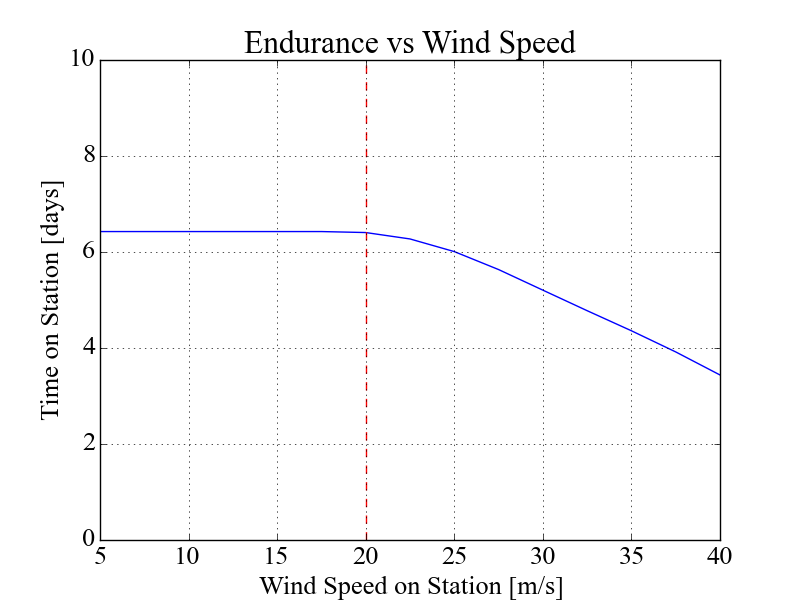
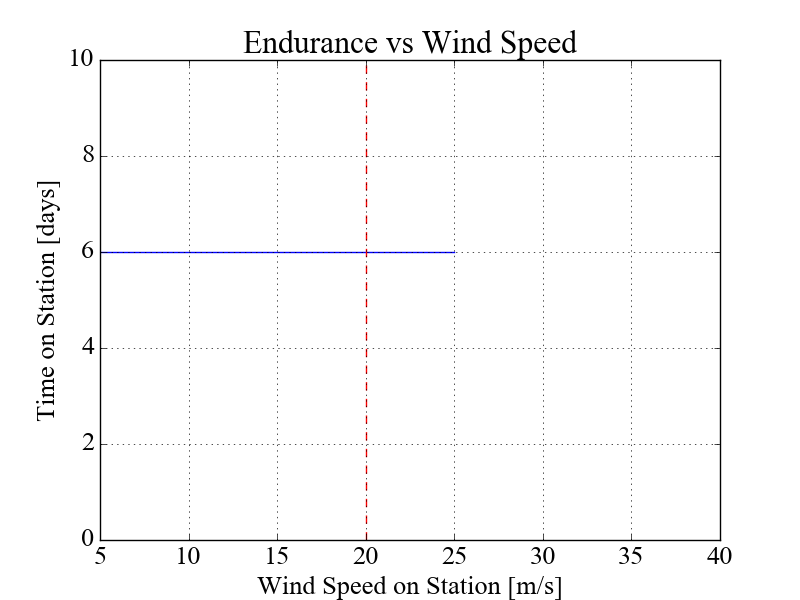
Many edits to generate CDR plots.

diff --git a/1682/gas_male/gas_male_fixCDRhtry.py b/1682/gas_male/gas_male_fixCDRhtry.py
@@ -13,13 +13,13 @@ plt.rc('font', family='serif')
 plt.rc('font', serif='Times New Roman')
 plt.rcParams.update({'font.size':19})
 
-PLOT = False
+PLOT = True
 fixed = True
-wind = False
+wind = True
 mission = False
 W_pay = False
 P_pay = False
-altitude = False
+altitude = True
 
 class GasPoweredHALE(Model):
     def __init__(self, h_station=15000, NLoiter=20, NClimb1=10, NClimb2=10, NCruise1=5, NCruise2=5,**kwargs):
@@ -263,7 +263,7 @@ class GasPoweredHALE(Model):
         # Breguet Range
         z_bre = VectorVariable(NSeg, 'z_{bre}', '-', 'breguet coefficient')
         t_cruise = Variable('t_{cruise}', 1, 'days', 'time to station')
-        t_station = Variable('t_{station}', 6, 'days', 'time on station')
+        t_station = Variable('t_{station}',6, 'days', 'time on station')
         R = Variable('R', 200, 'nautical_miles', 'range to station')
         R_cruise = Variable('R_{cruise}', 180, 'nautical_miles',
                             'range to station during climb')
@@ -505,11 +505,11 @@ if __name__ == '__main__':
         hspar_fix = sol('h_{spar}').magnitude
         Volfuel_fix = sol('Vol_{fuel}').magnitude
 
-        wind = True
+        #wind = True
         M = GasPoweredHALE(NLoiter=NLoiter, NClimb1=NClimb1, NClimb2=NClimb2, NCruise1=NCruise1, NCruise2=NCruise2)
 
         M.substitutions.update({'S': S_fix})
-        M.substitutions.update({'V_{wind}': 5})
+        #M.substitutions.update({'V_{wind}': 5})
         #M.substitutions.update({'S_{fuse}': Sfuse_fix})
         M.substitutions.update({'b': b_fix})
         #M.substitutions.update({'l_{fuse}': lfuse_fix})
@@ -723,8 +723,8 @@ if __name__ == '__main__':
         if P_pay:
 
             M.substitutions.update({'P_{pay}': ('sweep', np.linspace(5, 200, 20))})
+            M.substitutions.update({'MTOW' : np.array(151)})
             sol = M.solve(solver='mosek', verbosity=0, skipsweepfailures=True)
-
             P_pay = sol('P_{pay}')
             t_station = sol('t_{station}')
             
@@ -740,9 +740,12 @@ if __name__ == '__main__':
 
         if W_pay:
 
-            M.substitutions.update({'W_{pay}': ('sweep', np.linspace(8, 18, 11))})
+            M.substitutions.update({'MTOW': ('sweep', np.linspace(8+140, 18+140, 11))})
+            #M.substitutions.update({'W_{pay}': ('sweep', np.linspace(8, 18, 11))})
             sol = M.solve(solver='mosek', verbosity=0, skipsweepfailures=True)
-            W_pay = sol('W_{pay}')
+            MTOW = sol('MTOW').magnitude
+            W_pay = MTOW - np.multiply(np.ones([11]),140)
+            #W_pay = sol('W_{pay}')
             t_station = sol('t_{station}')
             df = pd.read_csv('trimDrag.csv')
             df = df.dropna()
@@ -762,7 +765,7 @@ if __name__ == '__main__':
 
         if altitude:
             # plot for h vs h_station
-            h_station = np.linspace(14000, 24000, 20)
+            h_station = np.linspace(14000, 22000, 20)
             t_station = []
             rho = []
             mu = []
@@ -784,9 +787,10 @@ if __name__ == '__main__':
                 #M.substitutions.update({'S_{fuse}': Sfuse_fix})
                 M.substitutions.update({'b': b_fix})
                 #M.substitutions.update({'l_{fuse}': lfuse_fix})
-                M.substitutions.update({'Vol_{fuse}': Volfuse_fix})
+                M.substitutions.update({'Vol_{fuse}' : Volfuse_fix+0.0001})
+                M.substitutions.update({'Vol_{fuel}' : Volfuel_fix+0.0001})
                 #M.substitutions.update({'h_{spar}': hspar_fix})
-                del M.substitutions["t_{station}"]
+                #del M.substitutions["t_{station}"]
                 M.cost = 1/M["t_{station}"]
                 sol = M.solve('mosek', verbosity=0)
                 t_station.append(sol('t_{station}').magnitude)
